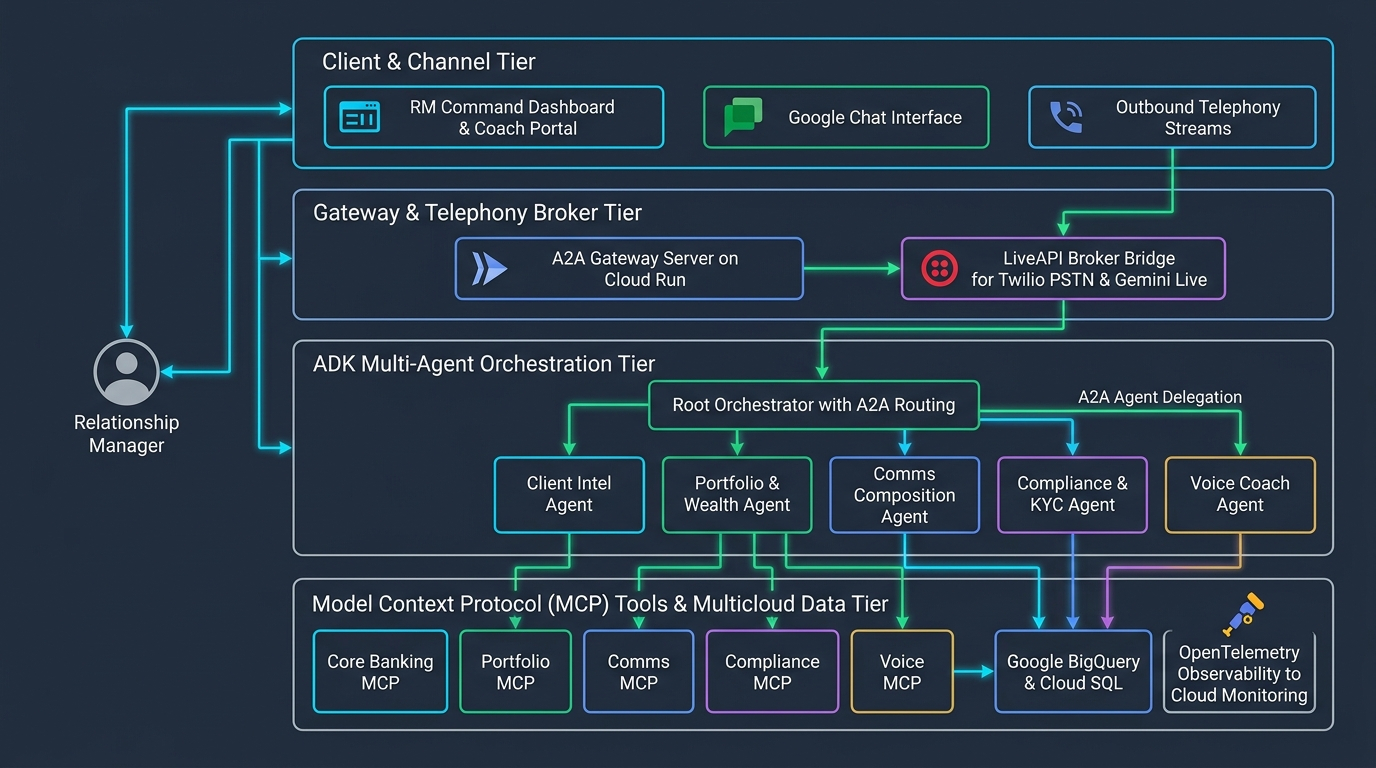
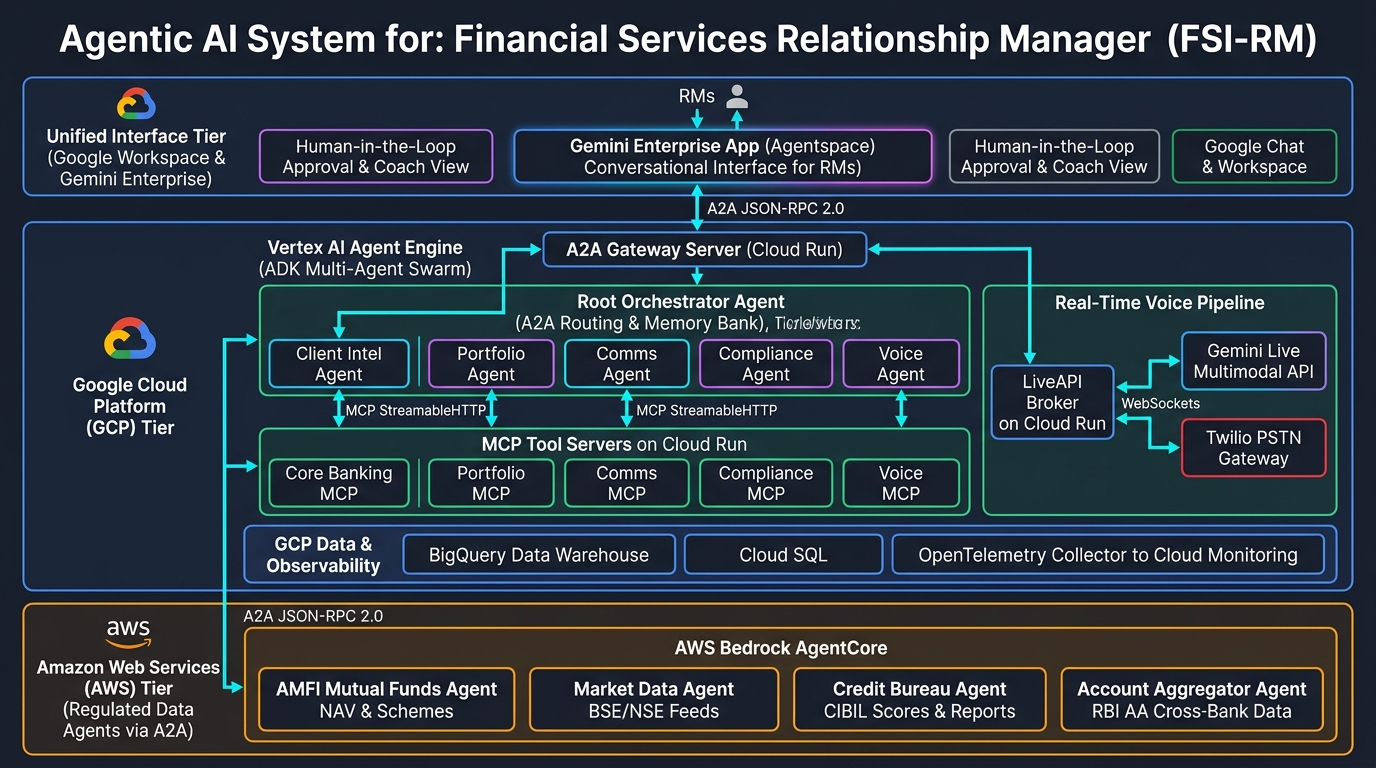
docs: update architecture diagram and README with GCP + AWS multicloud and Gemini Enterprise

diff --git a/README.md b/README.md
@@ -1,47 +1,52 @@
-# 🏦 Financial Services Relationship Manager (FSI-RM) Agentic AI Platform
+# 🏦 Financial Services Relationship Manager (FSI-RM) Multicloud Agentic AI Platform
 
 [![Google Cloud](https://img.shields.io/badge/Google%20Cloud-Vertex%20AI-4285F4?logo=googlecloud&logoColor=white)](https://cloud.google.com/vertex-ai)
+[![AWS](https://img.shields.io/badge/AWS-Bedrock%20AgentCore-FF9900?logo=amazonaws&logoColor=white)](https://aws.amazon.com/bedrock/)
+[![Gemini Enterprise](https://img.shields.io/badge/Unified%20UI-Gemini%20Enterprise%20(Agentspace)-8E75B2?logo=googlegemini&logoColor=white)](https://cloud.google.com/gemini/enterprise)
 [![ADK](https://img.shields.io/badge/Google%20ADK-Agent%20Development%20Kit-34A853?logo=google&logoColor=white)](https://cloud.google.com/vertex-ai/generative-ai/docs/agent-development-kit)
 [![Model Context Protocol](https://img.shields.io/badge/Tools-Model%20Context%20Protocol%20(MCP)-009688)](https://modelcontextprotocol.io)
 [![Gemini Live API](https://img.shields.io/badge/Voice%20AI-Gemini%20Live%20Multimodal-8E75B2)](https://cloud.google.com/vertex-ai/generative-ai/docs/multimodal-live-api)
 [![OpenTelemetry](https://img.shields.io/badge/Observability-OpenTelemetry-F54A00?logo=opentelemetry&logoColor=white)](https://opentelemetry.io)
 [![License](https://img.shields.io/badge/License-Apache%202.0-blue.svg)](LICENSE)
 
-An enterprise-grade, multi-agent AI platform designed to empower bank Relationship Managers (RMs) using **Google Agent Development Kit (ADK)**, **Model Context Protocol (MCP)**, and the **Gemini Live API** for real-time multilingual telephony. 
+An enterprise-grade, **multicloud multi-agent AI system** built across **Google Cloud Platform (GCP)** and **Amazon Web Services (AWS)**, providing a single unified conversational workspace in **Gemini Enterprise (Agentspace)** for bank Relationship Managers (RMs).
 
-This repository showcases a complete reference architecture for modern corporate and wealth banking automation—designed for low-latency performance, strict compliance verification, seamless cross-agent delegation (A2A), and comprehensive OpenTelemetry-based observability.
+The platform coordinates a swarm of AI agents spanning core banking, portfolio analysis, compliance verification, credit bureau scoring, market data feeds, and real-time bilingual voice telephony.
 
 ---
 
-## 🏛 High-Level System Architecture
+## 🏛 High-Level Multicloud Architecture
 
-![FSI-RM Agentic Banking Platform Architecture](docs/architecture.jpg)
+![FSI-RM Multicloud Architecture](docs/architecture.jpg)
 
 ### Architectural Overview
 
-The platform is structured into four core architectural layers:
+The system is organized into three unified operational tiers:
 
-1. **Client & Channel Tier**:
-   - **RM Command Dashboard & Coach Portal**: Web dashboard presenting real-time client portfolios, call sentiment metrics, and live in-call coaching suggestions.
-   - **Google Chat Interface**: Conversational entry point for RMs to trigger proactive audits and outreach.
-   - **Outbound Telephony Streams**: Real-time dual-sided PSTN audio streams via Twilio Media Streams.
+### 1. Unified Interface Tier (Google Workspace & Gemini Enterprise)
+- **Gemini Enterprise App (Agentspace)**: The primary conversational interface for Relationship Managers. RMs issue natural language queries, inspect multi-agent reasoning traces, and trigger complex workflows.
+- **Human-in-the-Loop (HITL) Approval & Coach View**: All customer-facing actions (outbound calls, emails, WhatsApp messages) require explicit RM approval before dispatch.
+- **Google Chat & Workspace Integration**: Conversational alerts and calendar reminders directly inside the RM's productivity tools.
 
-2. **Gateway & Telephony Broker Tier**:
-   - **A2A Gateway Server on Cloud Run**: Ingress router managing Agent-to-Agent communication protocols across the agent swarm.
-   - **LiveAPI Broker Bridge**: FastAPI + Pipecat-powered WebSocket bridge connecting Twilio PSTN audio to the Vertex AI Gemini Live API.
+### 2. Google Cloud Platform (GCP) Tier
+- **A2A Gateway Server on Cloud Run**: Ingress router exposing A2A (JSON-RPC 2.0) endpoints to Gemini Enterprise and managing cross-cloud delegation.
+- **Vertex AI Agent Engine (ADK Multi-Agent Swarm)**:
+  - **Root Orchestration Agent**: Decomposes RM intent, maintains conversational memory (PreloadMemoryTool & Session Memory Bank), and routes subtasks.
+  - **Client Intel Agent**: Builds 360° client profiles and transaction analytics.
+  - **Portfolio Agent**: Evaluates holdings, mutual fund schemes, and SIP lapse risks.
+  - **Comms Agent**: Drafts hyper-personalized emails and WhatsApp notifications.
+  - **Compliance Agent**: Conducts automated KYC/AML checks, Days Past Due (DPD) alerts, and regulatory validations.
+  - **Voice Telephony Agent & Voice Coach**: Manages live outbound calls and surfaces real-time in-call coaching suggestions.
+- **MCP Tool Servers on Cloud Run**: 5 dedicated Model Context Protocol microservices (`core_banking_mcp`, `portfolio_mcp`, `comms_mcp`, `compliance_mcp`, `voice_mcp`).
+- **Real-Time Voice Pipeline**: LiveAPI Broker (FastAPI + Pipecat on Cloud Run) bridging **Twilio PSTN audio** to **Gemini Live Multimodal API** over WebSockets.
+- **Data & Observability**: Google BigQuery data warehouse, Cloud SQL, and OpenTelemetry (OTel) sidecar exporting `gen_ai.*` execution metrics to Cloud Monitoring.
 
-3. **ADK Multi-Agent Orchestration Tier (Google Cloud Agent Runtime)**:
-   - **Root Orchestrator**: Evaluates incoming RM prompts and delegates tasks to domain specialists via declarative A2A routing.
-   - **Client Intel Agent**: Builds 360° client profiles and cross-examines historical transaction ledgers.
-   - **Portfolio & Wealth Agent**: Tracks mutual fund holdings, demat accounts, and impending SIP renewal lapses.
-   - **Comms Composition Agent**: Automatically drafts personalized customer emails, WhatsApp updates, and Google Calendar meeting invites.
-   - **Compliance & KYC Agent**: Performs automated KYC/AML audits, Days Past Due (DPD) risk assessments, and compliance letter drafting.
-   - **Voice Telephony & Voice Coach Agents**: Executes automated telephony conversations and provides live guidance hints on the RM screen.
-
-4. **Model Context Protocol (MCP) Tools & Multicloud Data Tier**:
-   - **5 Dedicated MCP Servers**: `core_banking_mcp`, `portfolio_mcp`, `comms_mcp`, `compliance_mcp`, and `voice_mcp`.
-   - **Systems of Record**: Google BigQuery data warehouse, Cloud SQL (PostgreSQL), Cloud Firestore, and GCS transcript storage.
-   - **Enterprise Observability**: OpenTelemetry (`OTel`) collector exporting `gen_ai.*` execution metrics and tool traces to Cloud Monitoring.
+### 3. Amazon Web Services (AWS) Tier (Regulated Data Agents via A2A)
+- **AWS Bedrock AgentCore**: Hosts 4 external regulated financial data agents connected via cross-cloud A2A (JSON-RPC 2.0) protocols:
+  - **AMFI Mutual Funds Agent**: Master mutual fund catalog, daily NAV lookups, and category return benchmarks.
+  - **Market Data Agent**: Real-time BSE/NSE stock quotes, sector performance, and market indices.
+  - **Credit Bureau Agent**: CIBIL / Experian credit scores, loan inquiry logs, and default risk reports.
+  - **Account Aggregator Agent**: Multi-bank statement analysis and net-worth synthesis via the RBI Account Aggregator (AA) framework.
 
 ---
 
@@ -65,7 +70,7 @@ The platform is structured into four core architectural layers:
 ### 3. Outbound Multilingual Telephony Outreach (Twilio + Gemini Live)
 - **Challenge**: RMs cannot manually scale live phone outreach to hundreds of clients for urgent updates.
 - **Agentic Flow**:
-  1. The RM triggers an automated outbound voice alert via Google Chat or Dashboard.
+  1. The RM triggers an automated outbound voice alert via Gemini Enterprise.
   2. The **Voice Agent** validates the script and passes context to the **Voice MCP**.
   3. The **Voice MCP** initiates an outbound PSTN call via **Twilio**.
   4. When the client answers, Twilio streams real-time audio via WebSockets Media Streams to the **LiveAPI Broker**, which connects to the **Gemini Live API** for a natural, ultra-low-latency conversation in multiple languages (Hindi, Indian English, etc.).
@@ -78,7 +83,9 @@ The platform is structured into four core architectural layers:
 ```text
 agentic-rm-banking-platform/
 ├── docs/
-│   └── architecture.jpg        # High-level architecture block diagram
+│   ├── architecture.jpg        # High-level multicloud architecture diagram
+│   ├── 01_high_level_design.md # Full HLD specification
+│   └── 02_low_level_design.md  # Detailed LLD specification
 ├── images/
 │   └── HLD.png                 # Architecture visual asset
 ├── agents/                     # Core ADK Agent Configurations & Logic
@@ -96,7 +103,8 @@ agentic-rm-banking-platform/
 │   ├── compliance_mcp.py       # Connects agents to KYC registers and rule-checks
 │   └── voice_mcp.py            # Triggers outbound Twilio PSTN voice dials
 ├── gateway/                    # Main API Ingress and Agent-to-Agent entry
-│   └── a2a_server.py           # Gateway server exposing A2A routes for Vertex AI
+│   ├── a2a_server.py           # Gateway server exposing A2A routes for Vertex AI & Gemini Enterprise
+│   └── register_in_agentspace.md # Registration guide for Gemini Enterprise (Agentspace)
 ├── coach/                      # Live Human-in-the-loop assistant
 │   ├── server.py               # Event subscriber feeding live advice hints
 │   └── dashboard.html          # Visual dashboard presenting real-time transcripts
@@ -105,7 +113,7 @@ agentic-rm-banking-platform/
 ├── infra/                      # Infrastructure as Code (Terraform)
 │   └── main.tf                 # Provisions Cloud Run, BigQuery, and PSC
 ├── requirements.txt            # Package dependencies
-└── .env.example                # Configuration placeholders (GCP, Twilio)
+└── .env.example                # Configuration placeholders (GCP, Twilio, AWS)
 ```
 
 ---
@@ -127,7 +135,7 @@ pip install -r requirements.txt
 ### 2. Configure Local Settings
 ```bash
 cp .env.example .env
-# Fill in your GCP_PROJECT, and optional TWILIO credentials
+# Fill in your GCP_PROJECT, TWILIO credentials, and AWS cross-cloud endpoint keys
 ```
 
 ### 3. Initialize BigQuery Database
@@ -142,16 +150,14 @@ python mcp_servers/portfolio_mcp.py &
 python mcp_servers/compliance_mcp.py &
 ```
 
-### 5. Launch Interactive Playground
-```bash
-adk playground agents/orchestrator/
-```
+### 5. Register in Gemini Enterprise (Agentspace)
+Follow the guide in [`gateway/register_in_agentspace.md`](gateway/register_in_agentspace.md) to register the A2A Gateway endpoint in Gemini Enterprise so RMs can interact directly with the agent swarm.
 
 ---
 
-## ☁ Deployment (Google Cloud)
+## ☁ Multicloud Deployment
 
-Deploy the entire platform using Terraform and Cloud Build:
+Deploy the entire platform across Google Cloud and AWS:
 
 ```bash
 # 1. Provision GCP infrastructure
